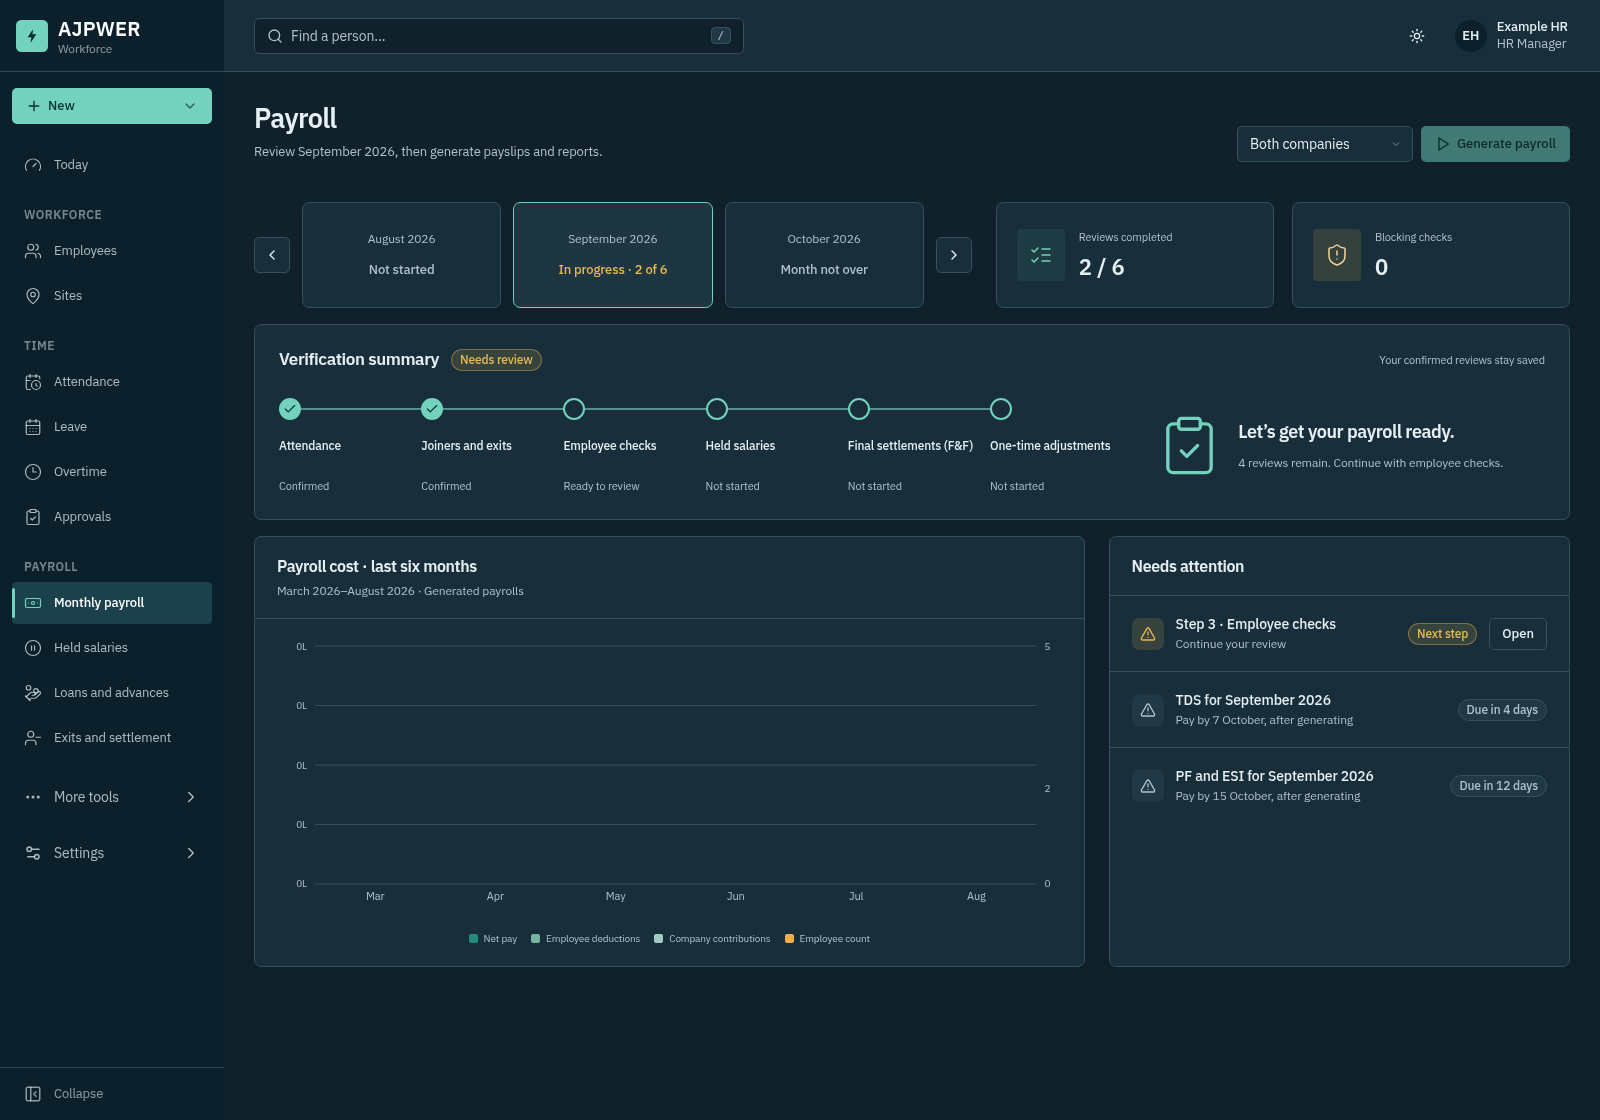
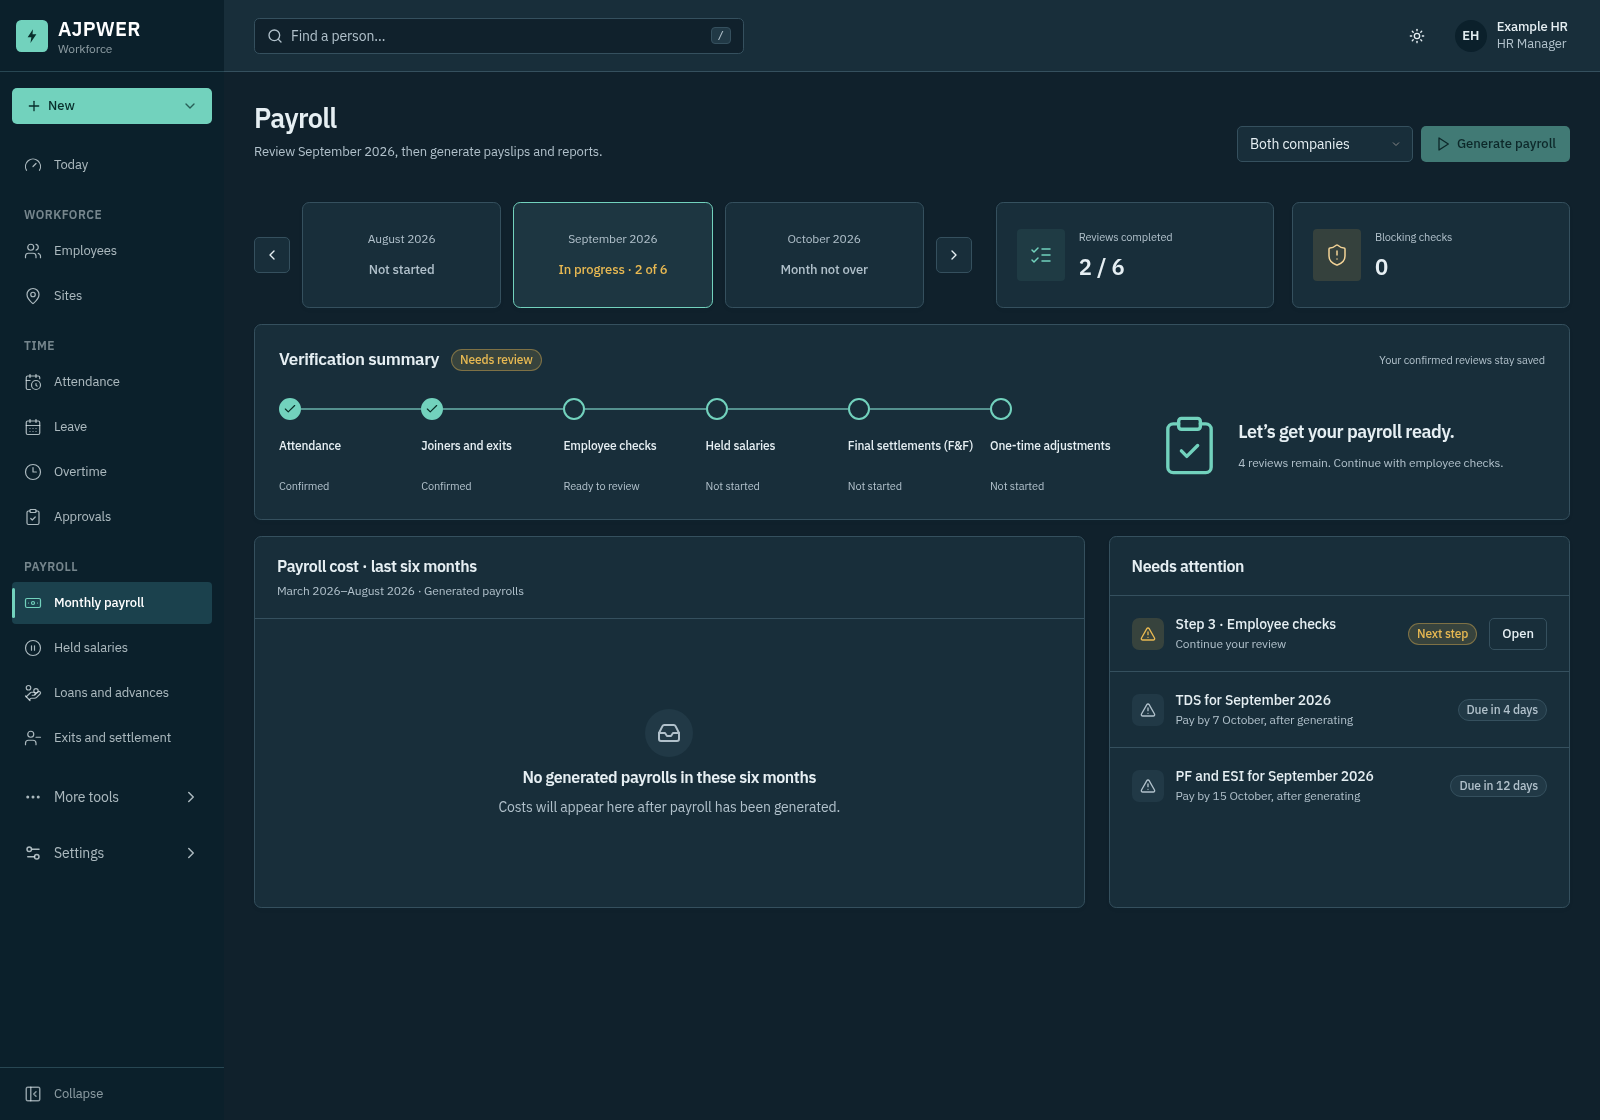
Keep cost charts immediate and explain empty payroll history

diff --git a/frontend/src/components/payroll/CostChart.jsx b/frontend/src/components/payroll/CostChart.jsx
@@ -1,22 +1,24 @@
 import { Bar, ComposedChart, Line, ResponsiveContainer, Tooltip, XAxis, YAxis, CartesianGrid } from 'recharts';
 import { inr, monthLabel } from '@/utils';
+import { EmptyState } from '@/components/states';
 import { tooltipStyle } from '@/components/charts';
 
 export function PayrollCostChart({ bars }) {
   const rows = bars.map(({ m, t }) => ({ month: monthLabel(m).slice(0, 3), period: monthLabel(m), ...(t ? { net: t.net, deductions: t.deductions, employer: t.employer, people: t.headcount } : {}) }));
+  if (!bars.some(b => b.t)) return <div className="flex min-h-72 items-center justify-center px-6"><EmptyState title={bars.some(b => b.failed) ? 'Payroll cost is unavailable' : 'No generated payrolls in these six months'} body={bars.some(b => b.failed) ? 'Retry the unavailable month below.' : 'Costs will appear here after payroll has been generated.'} /></div>;
   return <figure className="relative" aria-label="Six months of payroll cost and employee count">
     <div className="payroll-cost-chart">
       <ResponsiveContainer width="100%" height="100%">
         <ComposedChart data={rows} margin={{ top: 15, left: 5, right: 0, bottom: 5 }}>
           <CartesianGrid vertical={false} stroke="var(--border)" />
           <XAxis dataKey="month" tick={{ fontSize: 11, fill: 'var(--muted-foreground)' }} tickLine={false} axisLine={false} />
-          <YAxis yAxisId="cost" width={55} tick={{ fontSize: 10, fill: 'var(--muted-foreground)' }} tickFormatter={v => `${(v / 100 / 1e5).toFixed(0)}L`} tickLine={false} axisLine={false} />
+          <YAxis yAxisId="cost" width={55} tick={{ fontSize: 10, fill: 'var(--muted-foreground)' }} tickFormatter={v => `${(v / 100 / 1e5).toFixed(1).replace(/\.0$/, '')}L`} tickLine={false} axisLine={false} />
           <YAxis yAxisId="people" orientation="right" width={35} allowDecimals={false} domain={[0, value => Math.max(5, Math.ceil(value * 1.2))]} tick={{ fontSize: 10, fill: 'var(--muted-foreground)' }} tickLine={false} axisLine={false} />
           <Tooltip {...tooltipStyle} labelFormatter={(_, payload) => payload?.[0]?.payload.period ?? ''} formatter={(value, name) => [name === 'Employee count' ? value : inr(value), name]} />
-          <Bar yAxisId="cost" dataKey="net" name="Net pay" stackId="cost" fill="var(--chart-1)" maxBarSize={64} />
-          <Bar yAxisId="cost" dataKey="deductions" name="Employee deductions" stackId="cost" fill="var(--chart-2)" maxBarSize={64} />
-          <Bar yAxisId="cost" dataKey="employer" name="Company contributions" stackId="cost" fill="var(--chart-3)" radius={[6, 6, 0, 0]} maxBarSize={64} />
-          <Line yAxisId="people" dataKey="people" name="Employee count" stroke="var(--chart-4)" strokeWidth={2} dot={{ r: 3, stroke: 'var(--card)', strokeWidth: 1 }} connectNulls={false} />
+          <Bar isAnimationActive={false} yAxisId="cost" dataKey="net" name="Net pay" stackId="cost" fill="var(--chart-1)" maxBarSize={64} />
+          <Bar isAnimationActive={false} yAxisId="cost" dataKey="deductions" name="Employee deductions" stackId="cost" fill="var(--chart-2)" maxBarSize={64} />
+          <Bar isAnimationActive={false} yAxisId="cost" dataKey="employer" name="Company contributions" stackId="cost" fill="var(--chart-3)" radius={[6, 6, 0, 0]} maxBarSize={64} />
+          <Line isAnimationActive={false} yAxisId="people" dataKey="people" name="Employee count" stroke="var(--chart-4)" strokeWidth={2} dot={{ r: 3, stroke: 'var(--card)', strokeWidth: 1 }} connectNulls={false} />
         </ComposedChart>
       </ResponsiveContainer>
     </div>
